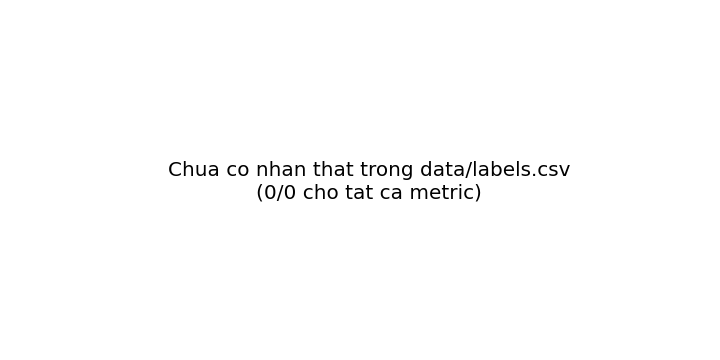
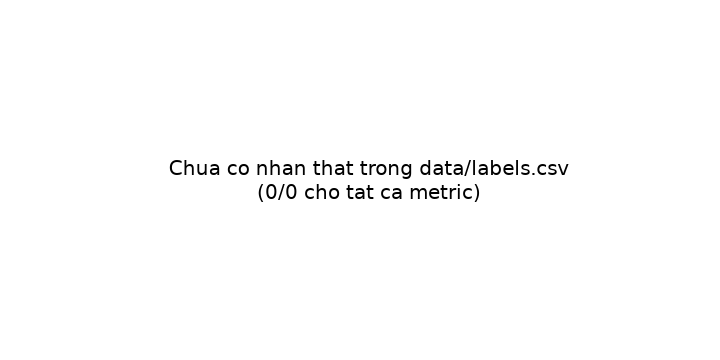
.

Changed region(s): [[0.2139, 0.4278, 0.7944, 0.55]]

diff --git a/docs/figures/metrics_report.md b/docs/figures/metrics_report.md
@@ -2,31 +2,35 @@
 
 **CANH BAO BAT BUOC** (checklist D4): vi co mau nho, moi con so duoi day duoc bao cao dang `k/n` kem khoang tin cay Wilson 95%, KHONG duoc doc/trich dan nhu ty le phan tram chinh xac tuyet doi (vd khong noi 'model dat 93,4% chinh xac'). KET QUA CHI PHAN ANH DU LIEU CUA 1 LAB NAY, KHONG duoc khai quat ra ngoai pham vi du lieu da thu thap.
 
-> **LUU Y**: `data/labels.csv` hien CHUA CO nhan nao duoc dien (Duc/Binh chua gan nhan). Cac metric can nhan (recommended_action, is_true_positive, severity) deu hien thi `0/0` duoi day - day la HANH VI DUNG (khong bia so), khong phai loi. Sau khi co nhan that, chay lai script nay.
-
 ## Tong quan tat ca ket qua da nap
 
-- Tong so dong ket qua (moi to hop model/mode/run): 361
-- Loi hoac khong parse duoc JSON: 47
+- Tong so dong ket qua (moi to hop model/mode/run): 127
+- Loi hoac khong parse duoc JSON: 1
 - Khop duoc voi it nhat 1 nhan that trong labels.csv: 0
 
 ## Ket qua theo tung to hop (model, mode)
 
 | model | mode | recommended_action | is_true_positive | severity (khop dung) | severity (lech <=1 bac) |
 |---|---|---|---|---|---|
-| mock-model | full_context | 0/0 (khong co du lieu) | 0/0 (khong co du lieu) | 0/0 (khong co du lieu) | 0/0 (khong co du lieu) |
-| mock-model | none | 0/0 (khong co du lieu) | 0/0 (khong co du lieu) | 0/0 (khong co du lieu) | 0/0 (khong co du lieu) |
-| mock-model | rag | 0/0 (khong co du lieu) | 0/0 (khong co du lieu) | 0/0 (khong co du lieu) | 0/0 (khong co du lieu) |
-| mock-model | rule_map | 0/0 (khong co du lieu) | 0/0 (khong co du lieu) | 0/0 (khong co du lieu) | 0/0 (khong co du lieu) |
+| qwen2.5:3b | full_context | 0/0 (khong co du lieu) | 0/0 (khong co du lieu) | 0/0 (khong co du lieu) | 0/0 (khong co du lieu) |
+| qwen2.5:3b | rag | 0/0 (khong co du lieu) | 0/0 (khong co du lieu) | 0/0 (khong co du lieu) | 0/0 (khong co du lieu) |
+| qwen2.5:3b | rule_map | 0/0 (khong co du lieu) | 0/0 (khong co du lieu) | 0/0 (khong co du lieu) | 0/0 (khong co du lieu) |
+
+## Truy xuat SOP va guard (chi co voi backend `copilot`; can cot `expected_sop` trong labels.csv)
+
+| model | mode | hit@1 | hit@3 | dung fallback | fallback dung | guard doi hanh dong | co nghi injection |
+|---|---|---|---|---|---|---|---|
+| qwen2.5:3b | full_context | 0/0 (khong co du lieu) | 0/0 (khong co du lieu) | 0/0 (khong co du lieu) | 0/0 (khong co du lieu) | 0/0 (khong co du lieu) | 0/0 (khong co du lieu) |
+| qwen2.5:3b | rag | 0/0 (khong co du lieu) | 0/0 (khong co du lieu) | 0/0 (khong co du lieu) | 0/0 (khong co du lieu) | 0/0 (khong co du lieu) | 0/0 (khong co du lieu) |
+| qwen2.5:3b | rule_map | 0/0 (khong co du lieu) | 0/0 (khong co du lieu) | 0/0 (khong co du lieu) | 0/0 (khong co du lieu) | 0/0 (khong co du lieu) | 0/0 (khong co du lieu) |
 
 ## Do tre (giay) - DA LOAI BO lan goi dau tien/cold-start cho tung (model, mode)
 
 | model | mode | n (loai cold-start) | n (goc, gom cold-start) | mean | median | p95 |
 |---|---|---:|---:|---:|---:|---:|
-| mock-model | full_context | 74 | 76 | 0.076s | 0.078s | 0.098s |
-| mock-model | none | 74 | 76 | 0.076s | 0.078s | 0.098s |
-| mock-model | rag | 74 | 76 | 0.076s | 0.078s | 0.098s |
-| mock-model | rule_map | 83 | 86 | 0.076s | 0.078s | 0.098s |
+| qwen2.5:3b | full_context | 41 | 42 | 40.002s | 44.114s | 46.702s |
+| qwen2.5:3b | rag | 41 | 42 | 18.099s | 17.181s | 30.805s |
+| qwen2.5:3b | rule_map | 41 | 42 | 14.732s | 13.563s | 26.945s |
 
 ## Ca sai (mismatches) - de D6 phan tich 10 ca sai nang nhat
 

diff --git a/eval/REPORT.md b/eval/REPORT.md
@@ -2,9 +2,6 @@
 
 **Nhac lai nguyen tac bao cao (checklist D4/D6)**: du lieu tu MOT lab, mau nho -> moi con so bao cao dang k/n kem khoang tin cay Wilson (xem `docs/figures/metrics_report.md`), KHONG khai quat ra ngoai pham vi du lieu nay. Ket qua AM TINH (vd mode nao do khong tot hon mode khac) VAN duoc bao cao trung thuc ben duoi, khong bi bo qua.
 
-> ## ⚠ SỐ LIỆU DƯỚI ĐÂY SINH TỪ BACKEND `mock` (DỮ LIỆU GIẢ) - KHÔNG DÙNG TRONG BÁO CÁO
-> Chỉ chạy lại sau khi có nhãn thật và kết quả từ `--backend copilot`.
-
 > ## ⚠ CHUA CO NHAN THAT
 > `data/labels.csv` hien chua co dong nao duoc Duc/Binh gan nhan, nen TOAN BO metric ben duoi deu la `0/0`. Day la trang thai DUNG (khong bia so), khong phai loi. File nay se TU DONG co so lieu that khi chay lai (`python3 eval/metrics.py ... && python3 eval/report.py ...`) sau khi lao dong gan nhan (D3, phan phu thuoc nguoi khac) hoan tat.
 
@@ -17,10 +14,9 @@
 
 | model\|mode | tong dong | loi/khong parse | khop hanh dong | khop TP/FP | severity dung | severity lech<=1 |
 |---|---:|---:|---|---|---|---|
-| mock-model|full_context | 87 | 11 | 0/0 (khong co du lieu) | 0/0 (khong co du lieu) | 0/0 (khong co du lieu) | 0/0 (khong co du lieu) |
-| mock-model|none | 87 | 11 | 0/0 (khong co du lieu) | 0/0 (khong co du lieu) | 0/0 (khong co du lieu) | 0/0 (khong co du lieu) |
-| mock-model|rag | 87 | 11 | 0/0 (khong co du lieu) | 0/0 (khong co du lieu) | 0/0 (khong co du lieu) | 0/0 (khong co du lieu) |
-| mock-model|rule_map | 100 | 14 | 0/0 (khong co du lieu) | 0/0 (khong co du lieu) | 0/0 (khong co du lieu) | 0/0 (khong co du lieu) |
+| qwen2.5:3b|full_context | 42 | 0 | 0/0 (khong co du lieu) | 0/0 (khong co du lieu) | 0/0 (khong co du lieu) | 0/0 (khong co du lieu) |
+| qwen2.5:3b|rag | 42 | 0 | 0/0 (khong co du lieu) | 0/0 (khong co du lieu) | 0/0 (khong co du lieu) | 0/0 (khong co du lieu) |
+| qwen2.5:3b|rule_map | 43 | 1 | 0/0 (khong co du lieu) | 0/0 (khong co du lieu) | 0/0 (khong co du lieu) | 0/0 (khong co du lieu) |
 
 ## 10 ca sai nang nhat + goi y nguyen nhan goc
 
